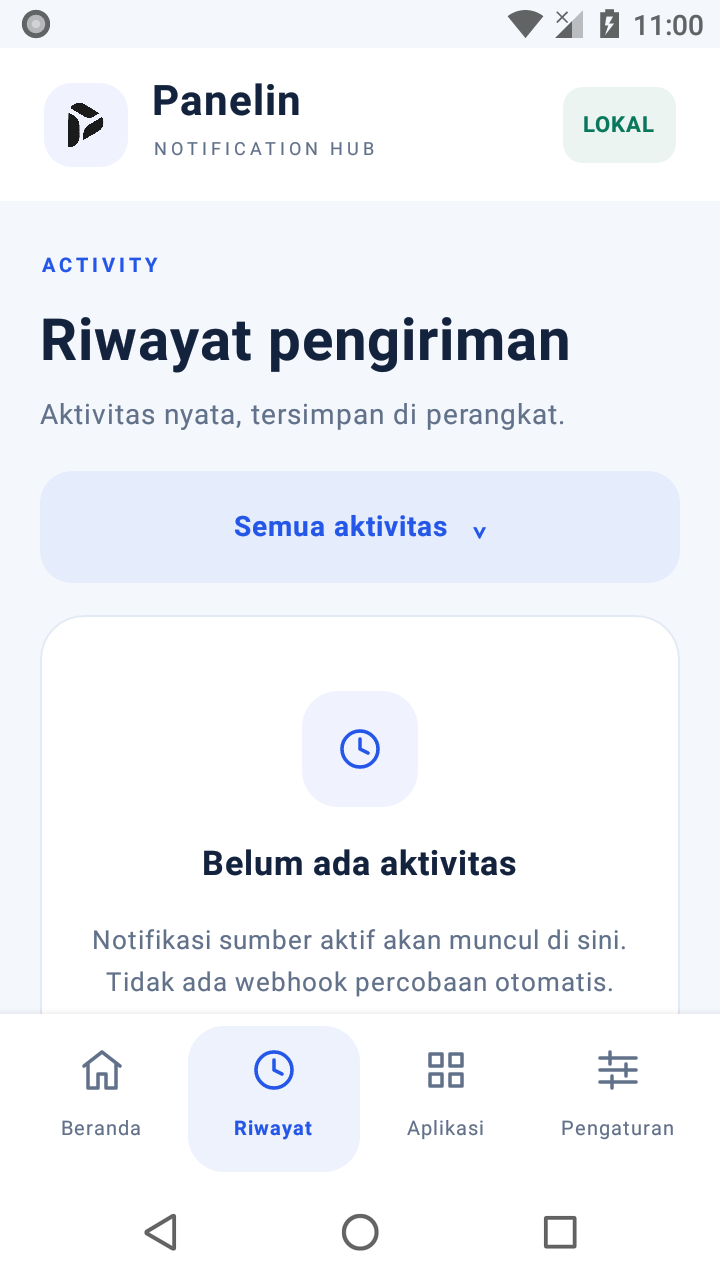
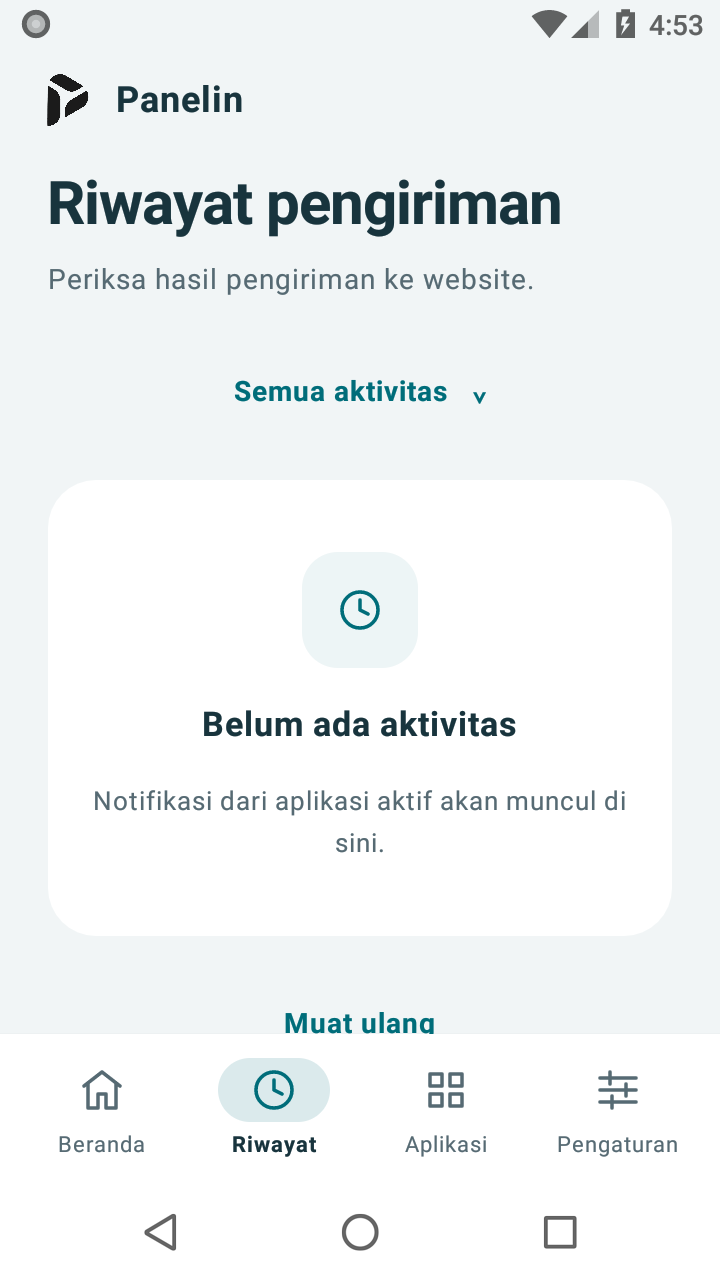
feat(android): perbarui tampilan biru toska dan navigasi v1.5.0

diff --git a/app/src/main/java/id/panelin/notifikasi/MainActivity.kt b/app/src/main/java/id/panelin/notifikasi/MainActivity.kt
@@ -28,6 +28,7 @@ import androidx.compose.runtime.*
 import androidx.compose.runtime.saveable.rememberSaveable
 import androidx.compose.ui.*
 import androidx.compose.ui.draw.clip
+import androidx.compose.ui.graphics.Brush
 import androidx.compose.ui.graphics.Color
 import androidx.compose.ui.graphics.asImageBitmap
 import androidx.compose.ui.graphics.vector.ImageVector
@@ -51,15 +52,15 @@ import org.json.JSONArray
 import java.text.DateFormat
 import java.util.Date
 
-private val Blue: Color @Composable get() = if (isSystemInDarkTheme()) Color(0xFF66A9FF) else Color(0xFF0066CC)
-private val Ink: Color @Composable get() = if (isSystemInDarkTheme()) Color(0xFFF5F5F7) else Color(0xFF1D1D1F)
-private val Muted: Color @Composable get() = if (isSystemInDarkTheme()) Color(0xFFAEAEB8) else Color(0xFF63636D)
-private val Canvas: Color @Composable get() = if (isSystemInDarkTheme()) Color(0xFF111113) else Color(0xFFF2F2F7)
-private val Paper: Color @Composable get() = if (isSystemInDarkTheme()) Color(0xFF1C1C1E) else Color.White
-private val Line: Color @Composable get() = if (isSystemInDarkTheme()) Color(0xFF38383A) else Color(0xFFE5E5EA)
+private val Blue: Color @Composable get() = if (isSystemInDarkTheme()) Color(0xFF73D9E0) else Color(0xFF006D7A)
+private val Ink: Color @Composable get() = if (isSystemInDarkTheme()) Color(0xFFEDF5F7) else Color(0xFF18343D)
+private val Muted: Color @Composable get() = if (isSystemInDarkTheme()) Color(0xFFACBFC6) else Color(0xFF566A73)
+private val Canvas: Color @Composable get() = if (isSystemInDarkTheme()) Color(0xFF101A20) else Color(0xFFF1F5F6)
+private val Paper: Color @Composable get() = if (isSystemInDarkTheme()) Color(0xFF1B2931) else Color.White
+private val Line: Color @Composable get() = if (isSystemInDarkTheme()) Color(0xFF354750) else Color(0xFFE1E9EC)
 private val Green: Color @Composable get() = if (isSystemInDarkTheme()) Color(0xFF72D99C) else Color(0xFF237A43)
 private val Amber: Color @Composable get() = if (isSystemInDarkTheme()) Color(0xFFFFC06B) else Color(0xFF965400)
-private val Round = RoundedCornerShape(20.dp)
+private val Round = RoundedCornerShape(24.dp)
 private data class SourceApp(val pkg: String, val label: String, val icon: android.graphics.Bitmap? = null)
 
 class MainActivity : ComponentActivity() {
@@ -216,22 +217,50 @@ class MainActivity : ComponentActivity() {
                                 when(page) {
                                     0 -> {
                                         item { val ready=loaded && enabled && listener.first && listener.second && destinations.any { it.enabled }
-                                            PanelCard {
-                                                Badge(if(ready) "Aktif" else if(!loaded) "Memuat status" else "Perlu penyiapan",if(ready) Green else Muted)
-                                                Text(when { !loaded -> "Status belum tersedia"; !enabled -> "Penerusan dijeda"; !listener.first -> "Izinkan akses notifikasi"; !listener.second -> "Menghubungkan ke Android"; !ready -> "Pilih aplikasi pembayaran"; else -> "Siap menerima notifikasi" },color=Ink,fontSize=24.sp,lineHeight=30.sp,fontWeight=FontWeight.SemiBold)
-                                                Copy("${destinations.count { it.enabled }} aplikasi aktif dari ${destinations.size} terhubung")
-                                                ToggleRow("Penerusan notifikasi",enabled,loaded && !busy) { value ->
-                                                    if(value && !acknowledged) privacyGate { }
-                                                    else if(value && destinations.none { it.enabled }) { tab=2; notice="Hubungkan dan aktifkan satu aplikasi terlebih dahulu." }
-                                                    else mutate({ store.enabled=value; if(value) Forwarding.reconnect(applicationContext) })
+                                            Column(Modifier.fillMaxWidth().clip(RoundedCornerShape(28.dp)).background(Brush.linearGradient(listOf(Color(0xFF006975),Color(0xFF0753A0)))).testTag("payment-overview").padding(24.dp),verticalArrangement=Arrangement.spacedBy(16.dp)) {
+                                                Row(verticalAlignment=Alignment.CenterVertically,horizontalArrangement=Arrangement.spacedBy(10.dp)) {
+                                                    Glyph(6,Color.White)
+                                                    Text(if(ready) "Aktif" else if(loadFailed) "Status belum tersedia" else if(!loaded) "Memuat status" else "Perlu penyiapan",color=Color.White,fontSize=13.sp,fontWeight=FontWeight.SemiBold,modifier=Modifier.clip(RoundedCornerShape(50)).background(Color.Black.copy(alpha=.18f)).padding(12.dp,8.dp))
                                                 }
-                                                Copy("Hasil pengiriman dan kredit saldo ada di Riwayat.")
+                                                Column(verticalArrangement=Arrangement.spacedBy(2.dp)) {
+                                                    Text("Diterima hari ini",color=Color.White,fontSize=14.sp)
+                                                    Text(snapshot?.todayCount?.toString()?:"—",color=Color.White,fontSize=56.sp,lineHeight=64.sp,fontWeight=FontWeight.Bold,letterSpacing=(-2).sp)
+                                                    Text("Notifikasi dari sumber pilihan",color=Color.White,fontSize=13.sp,lineHeight=19.sp)
+                                                }
+                                                HorizontalDivider(color=Color.White.copy(alpha=.22f))
+                                                Column(verticalArrangement=Arrangement.spacedBy(6.dp)) {
+                                                    Text(when { !loaded -> "Status belum tersedia"; !enabled -> "Penerusan dijeda"; !listener.first -> "Izinkan akses notifikasi"; !listener.second -> "Menghubungkan ke Android"; !ready -> "Pilih aplikasi pembayaran"; else -> "Siap menerima notifikasi" },color=Color.White,fontSize=19.sp,lineHeight=26.sp,fontWeight=FontWeight.SemiBold)
+                                                    Text(if(!loaded) "Ringkasan belum dapat dipastikan." else "${destinations.count { it.enabled }} aplikasi aktif dari ${destinations.size} terhubung",color=Color.White,fontSize=13.sp,lineHeight=20.sp)
+                                                    Text("Jumlah notifikasi, bukan saldo. Hasil pengiriman dan kredit saldo ada di Riwayat.",color=Color.White,fontSize=12.sp,lineHeight=18.sp)
+                                                }
                                             }
                                         }
+                                        item { PanelCard {
+                                            Section("Akses cepat")
+                                            val compact=config.screenWidthDp<360 || fontScale>1.4f
+                                            Column(Modifier.testTag("quick-actions"),verticalArrangement=Arrangement.spacedBy(12.dp)) {
+                                                listOf(0,1,2,3).chunked(if(compact) 2 else 4).forEach { group ->
+                                                    Row(Modifier.fillMaxWidth(),horizontalArrangement=Arrangement.spacedBy(8.dp)) {
+                                                        group.forEach { i ->
+                                                            Shortcut(listOf(2,1,6,3)[i],listOf("Kelola aplikasi","Lihat riwayat","Akses notifikasi","Atur perangkat")[i],Modifier.weight(1f)) {
+                                                                when(i) { 0->tab=2; 1->tab=1; 2->privacyGate { openSettings(Intent(Settings.ACTION_NOTIFICATION_LISTENER_SETTINGS)) }; else->tab=3 }
+                                                            }
+                                                        }
+                                                    }
+                                                }
+                                            }
+                                        } }
+                                        item { PanelCard {
+                                            ToggleRow("Penerusan notifikasi",enabled,loaded && !busy) { value ->
+                                                if(value && !acknowledged) privacyGate { }
+                                                else if(value && destinations.none { it.enabled }) { tab=2; notice="Hubungkan dan aktifkan satu aplikasi terlebih dahulu." }
+                                                else mutate({ store.enabled=value; if(value) Forwarding.reconnect(applicationContext) })
+                                            }
+                                        } }
                                         if(!acknowledged) item { PanelCard { Section("Sebelum memulai"); Copy("Izin Android mencakup semua notifikasi. Panelin hanya meneruskan sumber yang Anda pilih ke website Anda. Isinya bisa memuat data pribadi."); Action("Baca privasi",false) { info="Privasi" to HelpText.Privacy }; Action("Saya mengerti") { acceptPrivacy() } } }
-                                        item { val compact=LocalConfiguration.current.screenWidthDp<360 || LocalDensity.current.fontScale>1.4f
-                                            if(compact) Column(verticalArrangement=Arrangement.spacedBy(12.dp)) { Metric("Diterima hari ini",snapshot?.todayCount); Metric("Kredit tercatat",snapshot?.creditedCount) }
-                                            else Row(horizontalArrangement=Arrangement.spacedBy(12.dp)) { Box(Modifier.weight(1f)) { Metric("Diterima hari ini",snapshot?.todayCount) }; Box(Modifier.weight(1f)) { Metric("Kredit tercatat",snapshot?.creditedCount) } }
+                                        item { val compact=config.screenWidthDp<360 || fontScale>1.4f
+                                            if(compact) Column(verticalArrangement=Arrangement.spacedBy(12.dp)) { Metric("Dalam antrean",snapshot?.queuedCount); Metric("Kredit tercatat",snapshot?.creditedCount) }
+                                            else Row(horizontalArrangement=Arrangement.spacedBy(12.dp)) { Box(Modifier.weight(1f)) { Metric("Dalam antrean",snapshot?.queuedCount) }; Box(Modifier.weight(1f)) { Metric("Kredit tercatat",snapshot?.creditedCount) } }
                                         }
                                         item { PanelCard { Section("Aktivitas perangkat"); KeyValue("Dalam antrean",snapshot?.queuedCount?.toString()?:"—"); KeyValue("Perlu perhatian",snapshot?.attentionCount?.toString()?:"—"); KeyValue("Terakhir diterima",time(snapshot?.lastReceivedAt?:0)); KeyValue("Terakhir dikirim",time(snapshot?.lastSentAt?:0)); Copy("Kredit tercatat dihitung dari riwayat tersimpan, bukan saldo website. Status Dikreditkan berarti website mengonfirmasi kredit saldo.") } }
                                         item { PanelCard { Section("Persiapan perangkat")
@@ -406,16 +435,25 @@ private fun Modifier.toggleableCompat(checked: Boolean,enabled: Boolean,role: Ro
     }
 }
 @Composable private fun Empty(title: String,description: String,icon: Int) { PanelCard { Column(Modifier.fillMaxWidth().padding(vertical=18.dp),horizontalAlignment=Alignment.CenterHorizontally,verticalArrangement=Arrangement.spacedBy(16.dp)) { Box(Modifier.size(58.dp).clip(RoundedCornerShape(18.dp)).background(Blue.copy(alpha=.07f)),contentAlignment=Alignment.Center) { Glyph(icon,Blue) }; Section(title); Text(description,color=Muted,fontSize=13.sp,lineHeight=21.sp,textAlign=androidx.compose.ui.text.style.TextAlign.Center) } } }
+@Composable private fun Shortcut(icon: Int,title: String,modifier: Modifier,click: ()->Unit) {
+    val tint=when(icon) { 1->if(isSystemInDarkTheme()) Color(0xFFADBBFF) else Color(0xFF505CB2); 6->Green; 3->Amber; else->Blue }
+    Surface(onClick=click,color=Color.Transparent,shape=RoundedCornerShape(16.dp),modifier=modifier.heightIn(min=48.dp).semantics { role=Role.Button }) {
+        Column(Modifier.padding(vertical=8.dp,horizontal=2.dp),horizontalAlignment=Alignment.CenterHorizontally,verticalArrangement=Arrangement.spacedBy(10.dp)) {
+            Box(Modifier.size(48.dp).clip(RoundedCornerShape(16.dp)).background(tint.copy(alpha=.12f)),contentAlignment=Alignment.Center) { Glyph(icon,tint) }
+            Text(title,color=Ink,fontSize=12.sp,lineHeight=17.sp,fontWeight=FontWeight.Medium,textAlign=androidx.compose.ui.text.style.TextAlign.Center)
+        }
+    }
+}
 @Composable private fun NavItem(index: Int,title: String,selected: Boolean,modifier: Modifier,horizontal: Boolean=false,click: ()->Unit) {
-    val bg by animateColorAsState(if(selected) Blue.copy(alpha=.1f) else Color.Transparent,label="nav")
-    val style = modifier.clip(RoundedCornerShape(12.dp)).background(bg).selectableCompat(selected,click).heightIn(min=48.dp).padding(8.dp,8.dp)
+    val bg by animateColorAsState(if(selected) Blue.copy(alpha=.14f) else Color.Transparent,label="nav")
+    val style = modifier.clip(RoundedCornerShape(16.dp)).background(if(horizontal) bg else Color.Transparent).selectableCompat(selected,click).heightIn(min=48.dp).padding(8.dp,8.dp)
     val color = if(selected) Blue else Muted
     if(horizontal) Row(style,verticalAlignment=Alignment.CenterVertically,horizontalArrangement=Arrangement.spacedBy(12.dp)) {
         Glyph(index,color)
         Text(title,color=color,fontSize=14.sp,fontWeight=if(selected) FontWeight.SemiBold else FontWeight.Normal,modifier=Modifier.weight(1f))
     } else Column(style,horizontalAlignment=Alignment.CenterHorizontally,verticalArrangement=Arrangement.spacedBy(4.dp)) {
-        Glyph(index,color)
-        Text(title,color=color,fontSize=11.sp,lineHeight=15.sp,fontWeight=if(selected) FontWeight.SemiBold else FontWeight.Normal,textAlign=androidx.compose.ui.text.style.TextAlign.Center)
+        Box(Modifier.width(56.dp).height(32.dp).clip(RoundedCornerShape(50)).background(bg),contentAlignment=Alignment.Center) { Glyph(index,color) }
+        Text(title,color=if(selected) Ink else Muted,fontSize=11.sp,lineHeight=15.sp,fontWeight=if(selected) FontWeight.SemiBold else FontWeight.Normal,textAlign=androidx.compose.ui.text.style.TextAlign.Center)
     }
 }
 private fun Modifier.selectableCompat(selected: Boolean,click: ()->Unit) = this.then(Modifier.selectable(selected,role=Role.Tab,onClick=click))

diff --git a/app/src/androidTest/java/id/panelin/notifikasi/EditorSecurityTest.kt b/app/src/androidTest/java/id/panelin/notifikasi/EditorSecurityTest.kt
@@ -23,6 +23,14 @@ class EditorSecurityTest {
   ui.onNodeWithTag("app-search").assertIsDisplayed().performTextInput("id.panelin.fixture")
   ui.onNodeWithTag("page-content").performScrollToNode(hasText("Kelola tujuan"))
   ui.onNodeWithText("Kelola tujuan").performClick()
+  ui.waitUntil(30000) {
+   ui.onAllNodesWithTag("token").fetchSemanticsNodes().isNotEmpty() ||
+    ui.onAllNodesWithText("Persetujuan akses notifikasi").fetchSemanticsNodes().isNotEmpty()
+  }
+  if (ui.onAllNodesWithText("Persetujuan akses notifikasi").fetchSemanticsNodes().isNotEmpty()) {
+   ui.onNodeWithText("Saya mengerti").performScrollTo().performClick()
+  }
+  ui.waitUntil(30000) { ui.onAllNodesWithTag("token").fetchSemanticsNodes().isNotEmpty() }
   ui.onNodeWithTag("token").assert(SemanticsMatcher.keyIsDefined(androidx.compose.ui.semantics.SemanticsProperties.Password))
   ui.onNodeWithTag("token").performClick() /* token must never become unmasked */
   ui.activityRule.scenario.onActivity { it.currentFocus?.clearFocus() }

diff --git a/app/src/androidTest/java/id/panelin/notifikasi/WalletDesignTest.kt b/app/src/androidTest/java/id/panelin/notifikasi/WalletDesignTest.kt
@@ -1,0 +1,21 @@
+package id.panelin.notifikasi
+
+import androidx.compose.ui.test.*
+import androidx.compose.ui.test.junit4.createAndroidComposeRule
+import org.junit.Rule
+import org.junit.Test
+
+class WalletDesignTest {
+    @get:Rule val ui = createAndroidComposeRule<MainActivity>()
+
+    @Test fun overviewShortcutsAndNavigationRemainReachable() {
+        ui.onNodeWithTag("page-content").performScrollToNode(hasTestTag("payment-overview"))
+        ui.onNodeWithTag("payment-overview").assertIsDisplayed()
+        ui.onNodeWithTag("page-content").performScrollToNode(hasTestTag("quick-actions"))
+        ui.onNodeWithTag("quick-actions").assertIsDisplayed()
+        for (tab in listOf("Riwayat", "Aplikasi", "Pengaturan", "Beranda")) {
+            ui.onNode(hasText(tab) and isSelectable()).assertIsDisplayed().performClick().assertIsSelected()
+        }
+        ui.onNodeWithText("Notifikasi pembayaran").assertIsDisplayed()
+    }
+}

diff --git a/scripts/check-wallet-design.py b/scripts/check-wallet-design.py
@@ -1,0 +1,12 @@
+#!/usr/bin/env python3
+"""Source guard for the wallet-inspired design, not visual/runtime QA."""
+from pathlib import Path
+
+root = Path(__file__).resolve().parents[1]
+ui = (root / 'app/src/main/java/id/panelin/notifikasi/MainActivity.kt').read_text()
+for feature in ['Brush.linearGradient', 'testTag("payment-overview")', 'testTag("quick-actions")']:
+    assert feature in ui, f'Missing wallet design: {feature}'
+for contract in ['Notifikasi pembayaran', 'Riwayat', 'Aplikasi', 'Pengaturan', 'Role.Tab', 'SecureFlagPolicy.SecureOn', 'PasswordVisualTransformation', 'consumeWindowInsets(padding)']:
+    assert contract in ui, f'Missing existing UI contract: {contract}'
+assert 'gopay' not in ui.lower(), 'Keep original Panelin branding'
+print('Wallet design source guard OK. Runtime and screenshot checks remain required.')

diff --git a/README.md b/README.md
@@ -4,17 +4,17 @@ Aplikasi Android untuk pemilik/admin website **Panelin**, bukan pelanggan yang m
 
 Setiap client memilih sumber, URL, dan token sendiri. Tidak ada endpoint bawaan, server perantara Panelin, iklan, atau telemetri terpusat.
 
-v1.4.0 tersedia sebagai prerelease untuk uji terbatas. Screenshot di bawah masih menampilkan v1.2.0, bukan preview versi terbaru.
+v1.5.0 tersedia sebagai prerelease untuk uji terbatas. Screenshot di bawah berasal dari APK signed v1.5.0.
 
 ## Unduh dan pasang
 
-**[Unduh APK v1.4.0 — uji terbatas](https://github.com/herusuandana/panelin-notifikasi/releases/tag/v1.4.0)**
+**[Unduh APK v1.5.0 — uji terbatas](https://github.com/herusuandana/panelin-notifikasi/releases/tag/v1.5.0)**
 
-Di **Assets**, pilih `panelin-notifikasi-1.4.0-release.apk`, bukan **Source code**. File `.sha256` tersedia untuk memeriksa integritas.
+Di **Assets**, pilih `panelin-notifikasi-1.5.0-release.apk`, bukan **Source code**. File `.sha256` tersedia untuk memeriksa integritas.
 
 - Minimum Android 8.0, package `id.panelin.notifikasi`, sertifikat release tetap, bukan debug key.
 - UI native bergaya macOS/iOS dan timeline aktivitas. Jejak terenkripsi mencatat skip lokal, percobaan webhook, HTTP, hasil terpilih, dan retry tanpa respons mentah atau token.
-- Belum siap produksi. Matriks responsif, navigasi APK signed v1.4.0, Android 15, HP fisik, dan pembayaran hingga kredit saldo belum terverifikasi lengkap. Lihat [hasil QA](QA-RESULTS.md).
+- Belum siap produksi. Navigasi APK signed lulus pada emulator API 26. Matriks responsif, Android 15, HP fisik, dan pembayaran hingga kredit saldo belum terverifikasi lengkap. Lihat [hasil QA](QA-RESULTS.md).
 - Versi lain tersedia di [GitHub Releases](https://github.com/herusuandana/panelin-notifikasi/releases). Aplikasi belum memiliki pembaruan otomatis.
 
 <p>

diff --git a/QA-RESULTS.md b/QA-RESULTS.md
@@ -1,5 +1,16 @@
 # Hasil pengujian
 
+## v1.5.0 — prerelease uji terbatas (versionCode 7)
+
+- Release, debug, dan APK tes berhasil dibangun. Tujuh unit test lulus. Lint: 0 error, 27 warning.
[1 lines of base64/hex data omitted]
+- Guard desain, copy, kontrak komponen, metadata versi, dan diff lulus. Bukan bukti visual/runtime.
+- Navigasi empat tab APK signed v1.5.0/code 7 non-debuggable lulus di API 26. Screenshot Beranda terbaca tanpa overlap pada ukuran dasar.
+- API 26: 12 tes runtime lulus. Navigasi/pintasan dan scroll lulus di HP, compact/font 1.6, serta landscape. Komponen dan timeline lulus pada HP. Editor/consent lulus pada compact/font 1.6.
+- Matriks belum seluruhnya lulus: editor HP gagal ComposeNotIdleException, editor landscape terputus dengan exit 255. Kernel mengonfirmasi qemu dibunuh batas memori cgroup. Tablet belum diuji dan cleanup gagal. Penyebab timeout editor belum dipastikan.
+- Tablet, mode gelap runtime, Android 15, HP fisik, dan pembayaran nyata belum terverifikasi. Hasil versi sebelumnya bukan bukti kelulusan versi ini.
+- Tidak ada pengiriman uji ke webhook klien.
+
 ## v1.4.0 — prerelease uji terbatas (versionCode 6)
 
 - Tujuh unit test lulus. Lint: 0 error, 26 warning.

diff --git a/CHANGELOG.md b/CHANGELOG.md
@@ -2,6 +2,14 @@
 
 APK dan checksum: [GitHub Releases](https://github.com/herusuandana/panelin-notifikasi/releases). Versi mengikuti `versionName` dan `versionCode`. Catatan juga tersedia di Pengaturan → Catatan pembaruan.
 
+## 1.5.0 — 2026-10-28
+
+versionCode: 7 · Prerelease uji terbatas
+
+- Header biru–toska, ringkasan pemantauan, dan pintasan perangkat.
+- Kartu membulat, ikon berwarna, dan navigasi kapsul.
+- Antrean, filter pembayaran, enkripsi, dan jejak webhook tidak berubah.
+
 ## 1.4.0 — 2026-10-28
 
 versionCode: 6 · Prerelease uji terbatas, QA belum lengkap

diff --git a/TESTING.md b/TESTING.md
@@ -49,6 +49,7 @@ python3 scripts/check-release.py
 python3 scripts/check-startup.py
 python3 scripts/check-ui-components.py
 python3 scripts/check-ui-copy.py
+python3 scripts/check-wallet-design.py
 ```
 
 `python3 scripts/build-release.py assembleDebug assembleDebugAndroidTest` menjalankan unit test, lint, build release, dan verifikasi signature. Ikuti [aturan signing](README.md), jangan ganti identitas resmi.
